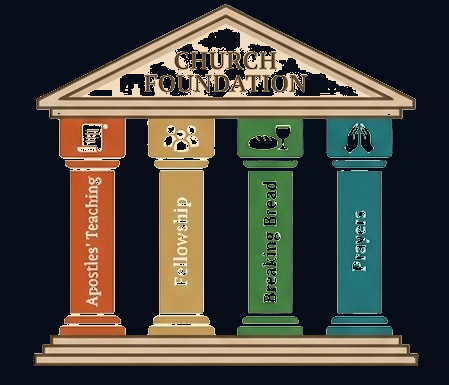
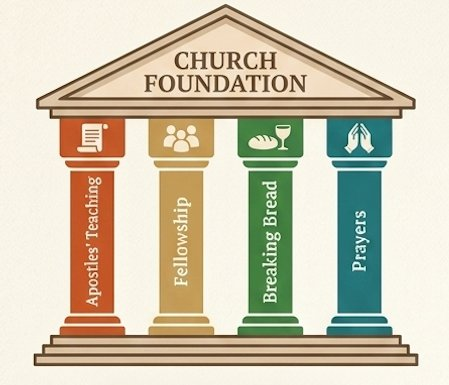
Add files via upload

diff --git a/index.html b/index.html
@@ -444,7 +444,7 @@ h1 .church-word{font-style:italic;color:var(--text-secondary);font-size:clamp(2.
         <p style="font-size:0.7rem;letter-spacing:0.2em;text-transform:uppercase;color:var(--gold);margin:1.8rem 0 0.5rem;border-left:2px solid var(--gold);padding-left:0.75rem;">To Proclaim</p>
 
         <div style="margin:1.5rem 0 1.8rem;text-align:center;">
-          <img src="Foundations.png" alt="Church Foundation — Apostles Teaching, Fellowship, Breaking Bread, Prayers" style="width:100%;max-width:380px;display:block;margin:0 auto;">
+          <img src="Foundations.png" alt="Church Foundation — Apostles Teaching, Fellowship, Breaking Bread, Prayers" style="width:100%;max-width:380px;display:block;margin:0 auto;mix-blend-mode:screen;">
         </div>
 
         <p>We gather in the pattern of <em>Acts 2:42</em>, continuing steadfastly in the four pillars of apostolic life: <strong>Apostolic Teaching</strong>, <strong>Fellowship</strong>, <strong>Breaking of Bread</strong>, and <strong>Prayer</strong>. These are not optional extras — they are the foundation.</p> one and none other, to whom Jesus called <em>&#8216;My Father and your Father, my God and your God&#8217;</em> — <em>John 20:17</em>.</p>
@@ -461,7 +461,7 @@ h1 .church-word{font-style:italic;color:var(--text-secondary);font-size:clamp(2.
         <div class="dual-verse">
           <h3>Why the name 2-22?</h3>
           <div style="margin-bottom:1.5rem;">
-            <img src="2visions.png" alt="Two Visions — Passion for Purity" style="width:100%;max-width:260px;display:block;margin:0 auto 1.2rem;">
+            <img src="2visions.png" alt="Two Visions — Passion for Purity" style="width:100%;max-width:260px;display:block;margin:0 auto 1.2rem;mix-blend-mode:screen;">
           </div>
           <div class="verse-block">
             <cite style="font-family:'DM Sans',sans-serif;font-size:0.65rem;letter-spacing:0.18em;text-transform:uppercase;color:var(--gold);display:block;margin-bottom:0.5rem;">2:2 — First Vision</cite>